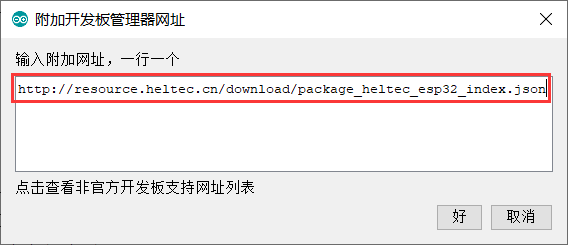
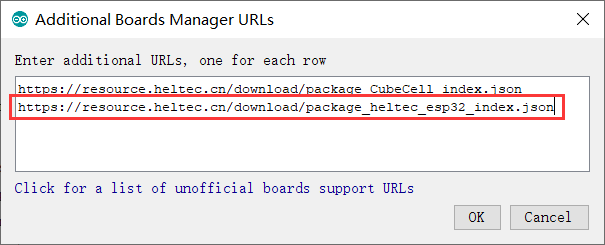
Update ESP32 relevant documents

diff --git a/zh_CN/source/esp32/wifi_lora_32/hardware_update_log.md b/zh_CN/source/esp32/wifi_lora_32/hardware_update_log.md
@@ -23,7 +23,7 @@
 
 - 使用40MHz HSE (V1 使用26MHz);
 
-- 基本低功耗设计（深度睡眠800uA）；
+- 基本低功耗设计（深度睡眠800uA；
 
 - 添加Vext电源输出引脚，用户可以使用该引脚驱动一些外部设备（传感器、电机等），当系统需要进入深度睡眠模式时，Vext可以关闭。
 
@@ -55,3 +55,10 @@
 
 ![](img/hardware_update_log/03.png)
 
+- 2019-6-15 公开销售
+- 将射频开关从PE4259换成UPG2179，并将射频部分换成官方推荐值;
+- 将电源检测引脚从13(ADC2:4)换到37(ADC1:1)。
+- [V2.1引脚图](https://resource.heltec.cn/download/WiFi_LoRa_32/WIFI_LoRa_32_V2.1.pdf)
+- V2.1原理图
+  - [433, 470~510 版本](https://resource.heltec.cn/download/WiFi_LoRa_32/V2.1/WiFi_LoRa_32_V2.1(433%2C470-510).PDF)
+  - [868~915 版本](https://resource.heltec.cn/download/WiFi_LoRa_32/V2.1/WIFI_LoRa_32_V2.1(868-915).PDF)

diff --git a/zh_CN/source/cubecell/quick_start.md b/zh_CN/source/cubecell/quick_start.md
@@ -29,11 +29,7 @@ CubeCell基于ASR650x系列，本页面展示了如何安装和配置CubeCell Ar
 
 输入以下json url到board manager URLs:：
 
-**推荐:** [https://docs.heltec.cn/download/package_CubeCell_index.json](https://docs.heltec.cn/download/package_CubeCell_index.json)
-
-or
-
-**中国大陆:** [http://119.23.153.38/download/package_CubeCell_index.json](http://119.23.153.38/download/package_CubeCell_index.json)
+ [https://docs.heltec.cn/download/package_CubeCell_index.json](https://docs.heltec.cn/download/package_CubeCell_index.json)
 
 ![](img/quick_start/03.png)
 

diff --git a/zh_CN/source/esp32+arduino/quick_start.md b/zh_CN/source/esp32+arduino/quick_start.md
@@ -21,7 +21,7 @@
 
 ![](img/quick_start/02.png)
 
-**输入最新的 ESP32 package URL:** [http://resource.heltec.cn/download/package_heltec_esp32_index.json](http://resource.heltec.cn/download/package_heltec_esp32_index.json)
+**输入最新的 ESP32 package URL:** [https://resource.heltec.cn/download/package_heltec_esp32_index.json](https://resource.heltec.cn/download/package_heltec_esp32_index.json)
 
 ![](img/quick_start/03.png)
 

diff --git a/zh_CN/source/esp32/quick_start.md b/zh_CN/source/esp32/quick_start.md
@@ -22,7 +22,7 @@
 
 ![](img/quick_start/02.png)
 
-**输入最新的ESP32 package URL:** [http://resource.heltec.cn/download/package_heltec_esp32_index.json](http://resource.heltec.cn/download/package_heltec_esp32_index.json)
+**输入最新的ESP32 package URL:** [https://resource.heltec.cn/download/package_heltec_esp32_index.json](https://resource.heltec.cn/download/package_heltec_esp32_index.json)
 
 ![](img/quick_start/03.png)
 
